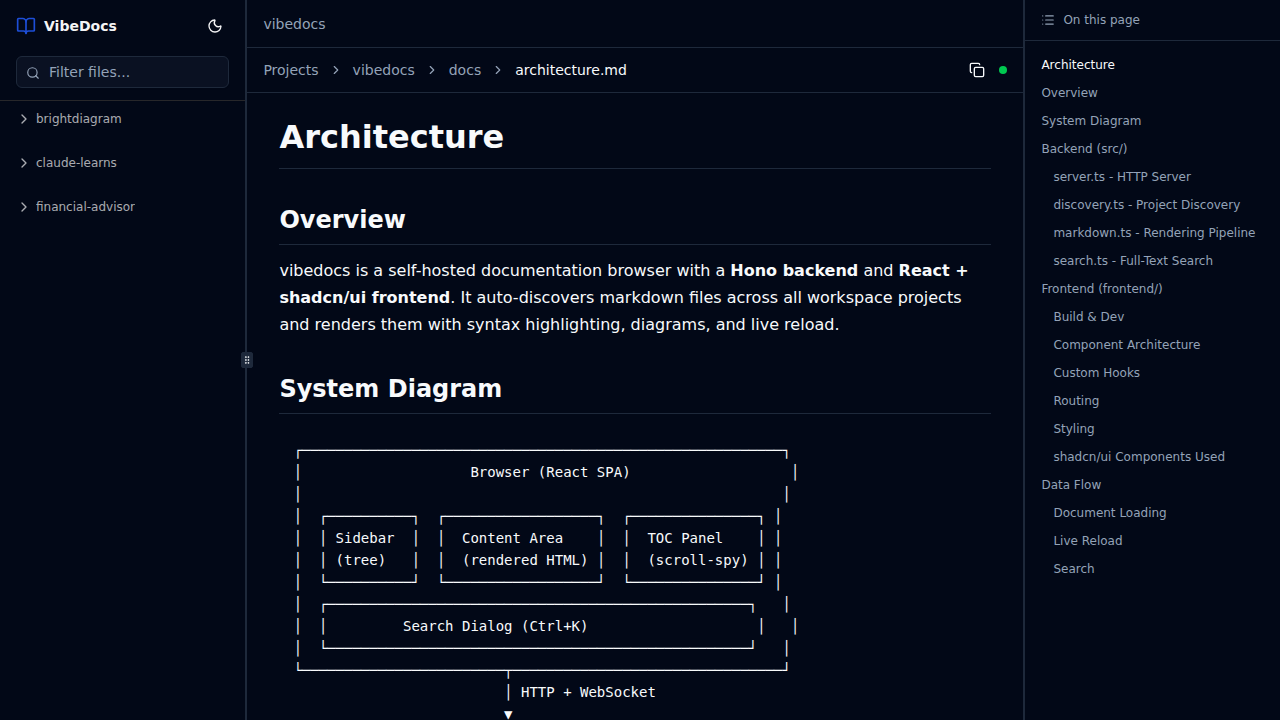
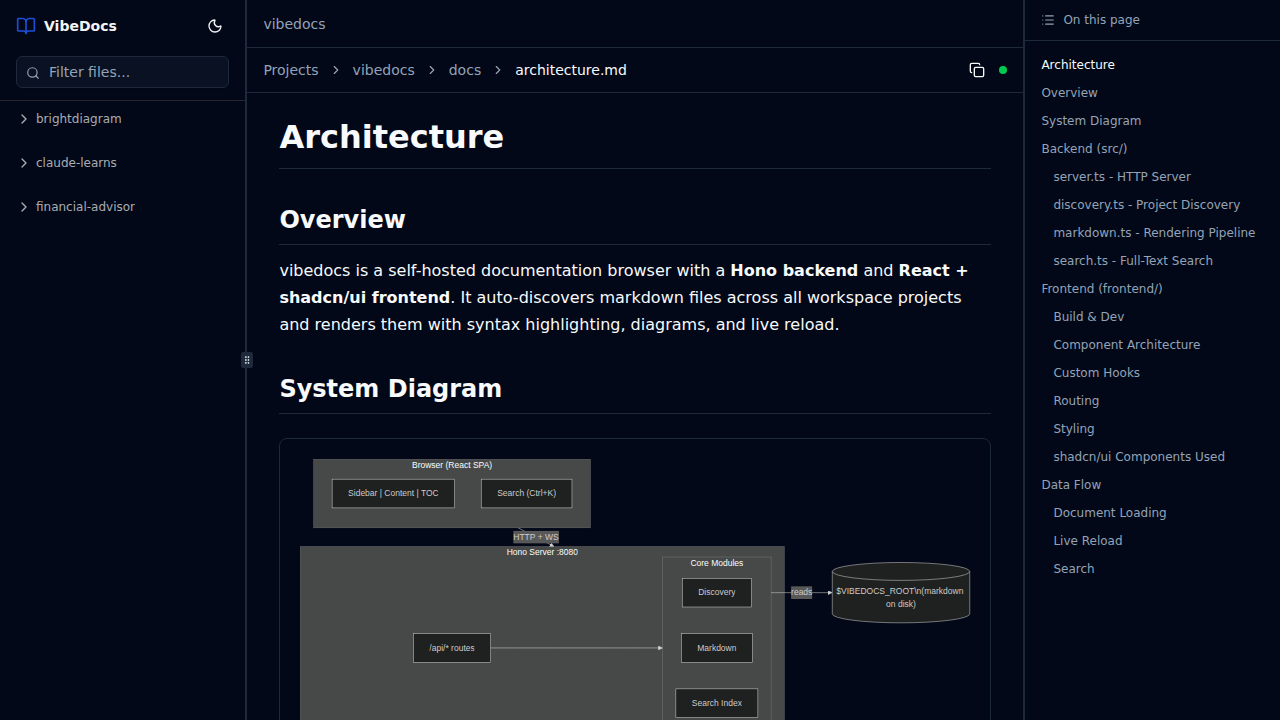
Replace ASCII system diagram with Mermaid diagram

Changed region(s): [[0.2188, 0.6111, 0.7812, 1.0]]

diff --git a/docs/architecture.md b/docs/architecture.md
@@ -6,41 +6,32 @@ vibedocs is a self-hosted documentation browser with a **Hono backend** and **Re
 
 ## System Diagram
 
-```
-┌─────────────────────────────────────────────────────────┐
-│                    Browser (React SPA)                   │
-│                                                         │
-│  ┌──────────┐  ┌──────────────────┐  ┌───────────────┐ │
-│  │ Sidebar  │  │  Content Area    │  │  TOC Panel    │ │
-│  │ (tree)   │  │  (rendered HTML) │  │  (scroll-spy) │ │
-│  └──────────┘  └──────────────────┘  └───────────────┘ │
-│  ┌──────────────────────────────────────────────────┐   │
-│  │         Search Dialog (Ctrl+K)                    │   │
-│  └──────────────────────────────────────────────────┘   │
-└────────────────────────┬────────────────────────────────┘
-                         │ HTTP + WebSocket
-                         ▼
-┌─────────────────────────────────────────────────────────┐
-│                  Hono Server (port 8080)                 │
-│                                                         │
-│  ┌─────────────┐  ┌──────────────┐  ┌───────────────┐  │
-│  │ API Routes  │  │ Static Files │  │  WebSocket    │  │
-│  │ /api/*      │  │ SPA fallback │  │  (live reload)│  │
-│  └──────┬──────┘  └──────────────┘  └───────┬───────┘  │
-│         │                                    │          │
-│  ┌──────▼──────┐  ┌──────────────┐  ┌───────▼───────┐  │
-│  │ Discovery   │  │   Markdown   │  │   Chokidar    │  │
-│  │ (file tree) │  │   Pipeline   │  │   (watcher)   │  │
-│  └─────────────┘  └──────────────┘  └───────────────┘  │
-│  ┌─────────────┐                                        │
-│  │   Search    │                                        │
-│  │   (index)   │                                        │
-│  └─────────────┘                                        │
-└─────────────────────────────────────────────────────────┘
-                         │
-                         ▼
-              $VIBEDOCS_ROOT/*/
-              (markdown files on disk)
+```mermaid
+graph LR
+    subgraph Browser["Browser (React SPA)"]
+        direction TB
+        UI["Sidebar | Content | TOC"]
+        Search["Search (Ctrl+K)"]
+    end
+
+    subgraph Server["Hono Server :8080"]
+        direction TB
+        API["/api/* routes"]
+        Static["Static / SPA"]
+        WS["WebSocket"]
+        subgraph Core["Core Modules"]
+            direction LR
+            Discovery["Discovery"]
+            MD["Markdown"]
+            Idx["Search Index"]
+            Watch["Chokidar"]
+        end
+        API --> Core
+        WS --> Watch
+    end
+
+    Browser -- "HTTP + WS" --> Server
+    Core -- "reads" --> Disk[("$VIBEDOCS_ROOT\n(markdown on disk)")]
 ```
 
 ## Backend (src/)